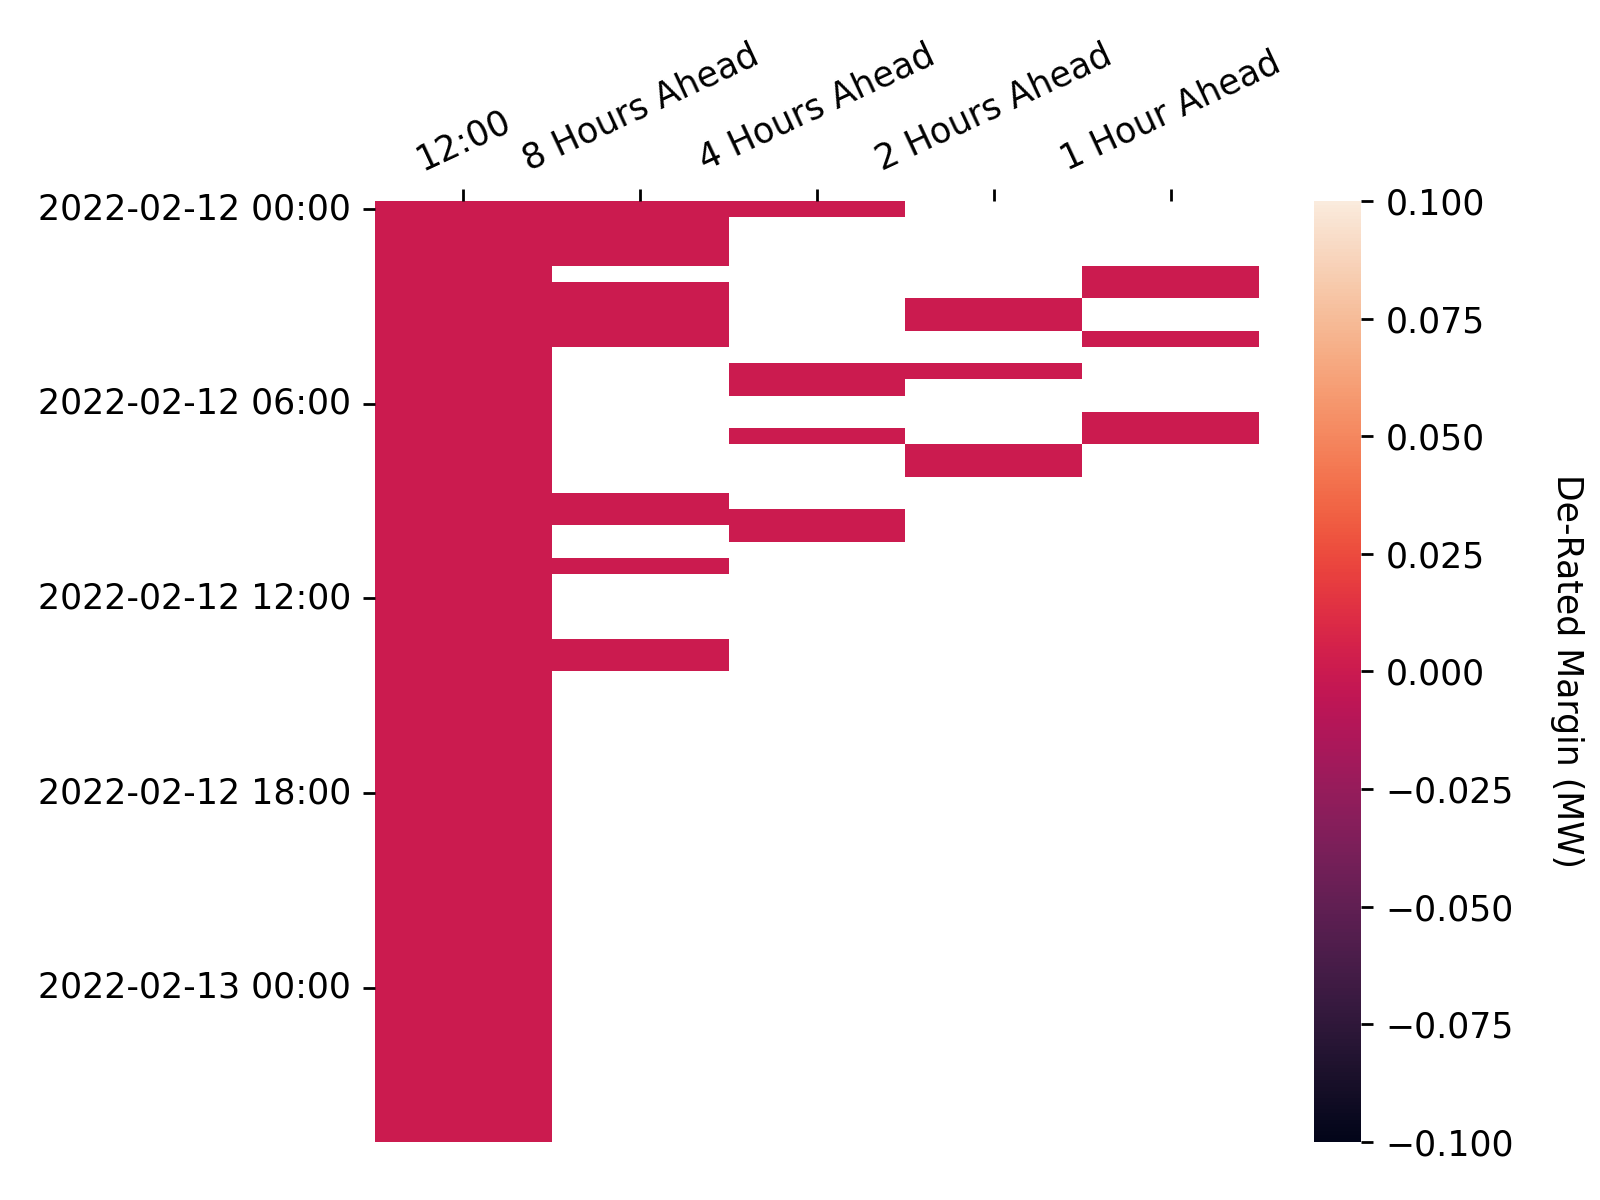
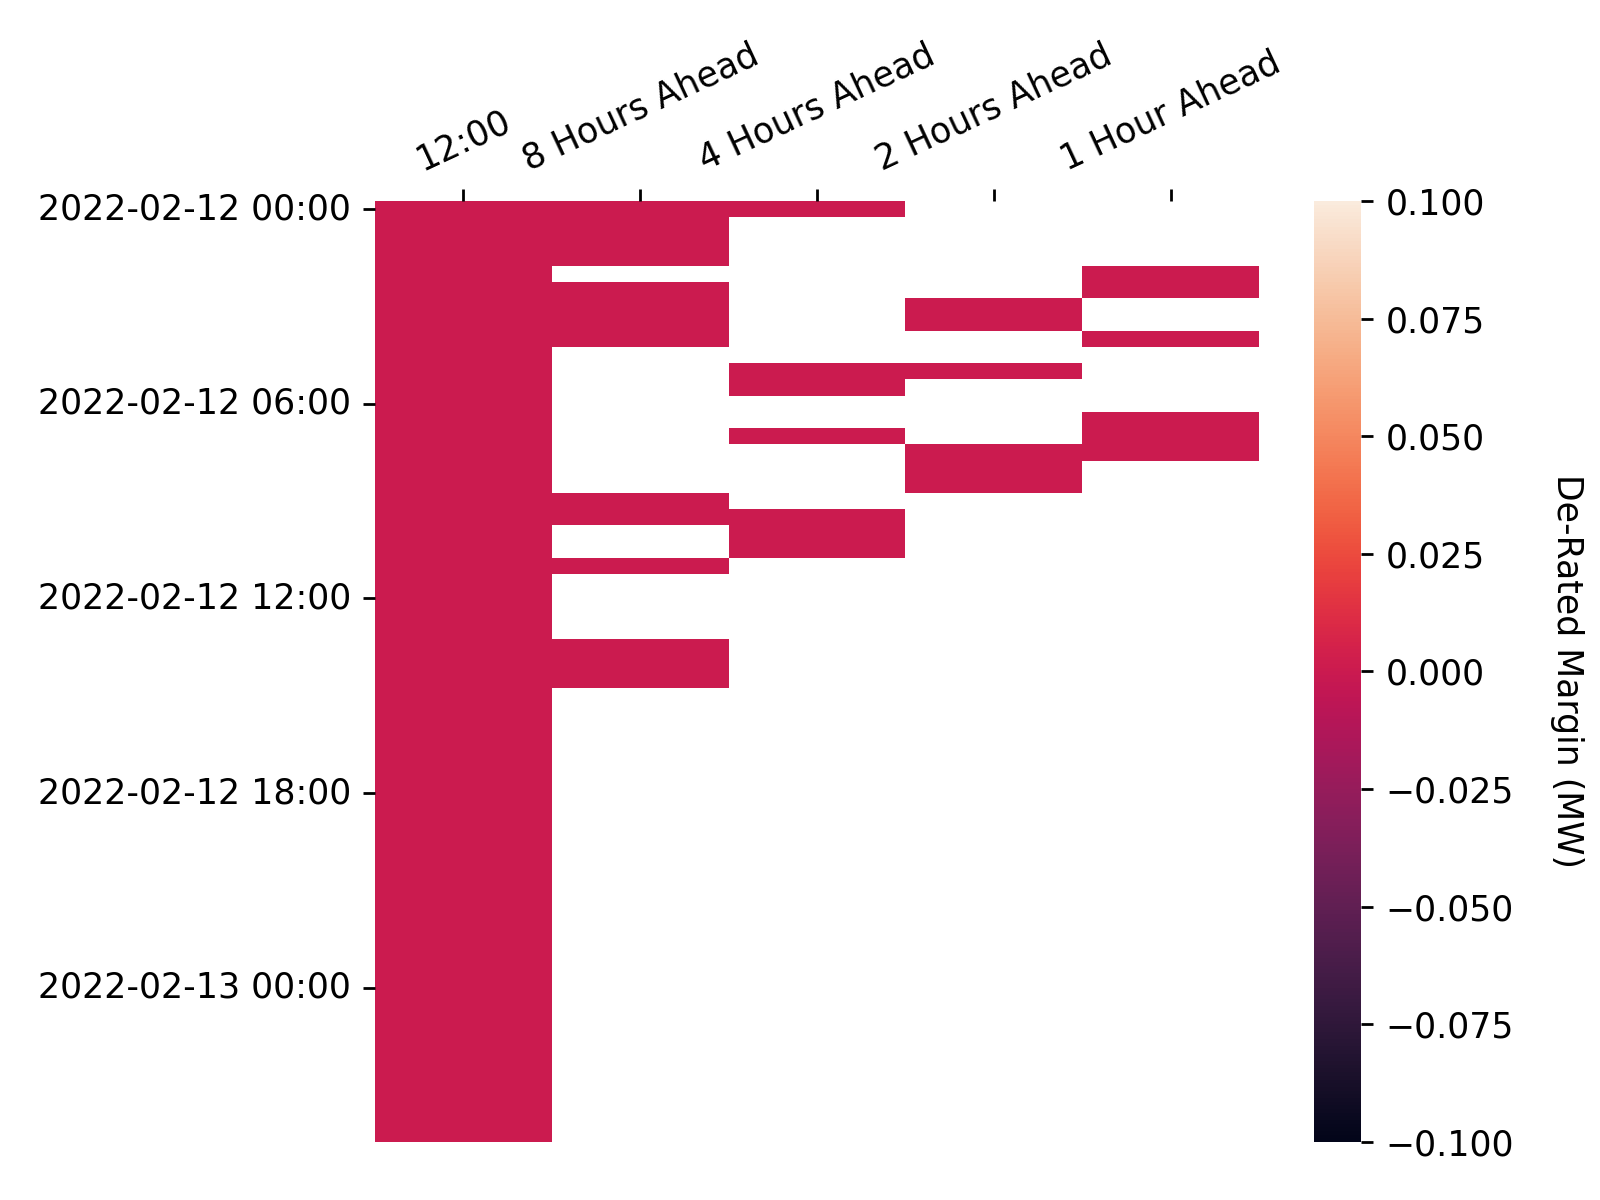
Apply automatic changes

Changed region(s): [[0.5625, 0.37, 0.7812, 0.4317], [0.4375, 0.4317, 0.5625, 0.4625], [0.3438, 0.555, 0.4688, 0.5858]]

diff --git a/docs/js/map.js b/docs/js/map.js
@@ -144,7 +144,7 @@ document.addEventListener("DOMContentLoaded", function() {
                 follow: 1
             });
             mymap.addControl(sliderControl);
-            sliderControl.startSlider(334);
+            sliderControl.startSlider(335);
         });
     });
 });

diff --git a/docs/visualisations.md b/docs/visualisations.md
@@ -60,7 +60,7 @@ In each settlement period the system operator publishes the de-rated margin fore
 * At 1200 hours on each calendar day for all Settlement Periods for which Gate Closure has not yet passed and which occur within the current Operational Day or the following Operational Day; and
 * At eight, four, two and one hour(s) prior to the beginning of the Settlement Period to which the De-Rated Margin Forecast relates.
 
-These figures will be updated on an hourly basis, the last update was at: 2022-02-12 06:15
+These figures will be updated on an hourly basis, the last update was at: 2022-02-12 06:40
 
 <br>
 
@@ -83,7 +83,7 @@ The following heatmap shows how the more recent de-rated margin forecasts deviat
 
 ### Power Output Map
 
-Last Updated: 2022-02-12 06:15
+Last Updated: 2022-02-12 06:45
 
 This map shows the power output of individual plants connected to the transmission grid as stated in their most recent Physical Notifications. This data can be retrieved through the *PHYBMDATA* BMRS stream, the out-turn data can be viewed one week later through the *B1610* stream. The scrollbar at the top of the map can be used to view how the generation sources have changed their output over the last week, the layer control can be used to toggle on/off the transmission network, and the plants themselves can be clicked to reveal additional information. The plant location data used in this map has been taking from a sister project, [the Power Station Dictionary](https://osuked.github.io/Power-Station-Dictionary/), which aims to link between data about individual power plants.
 
